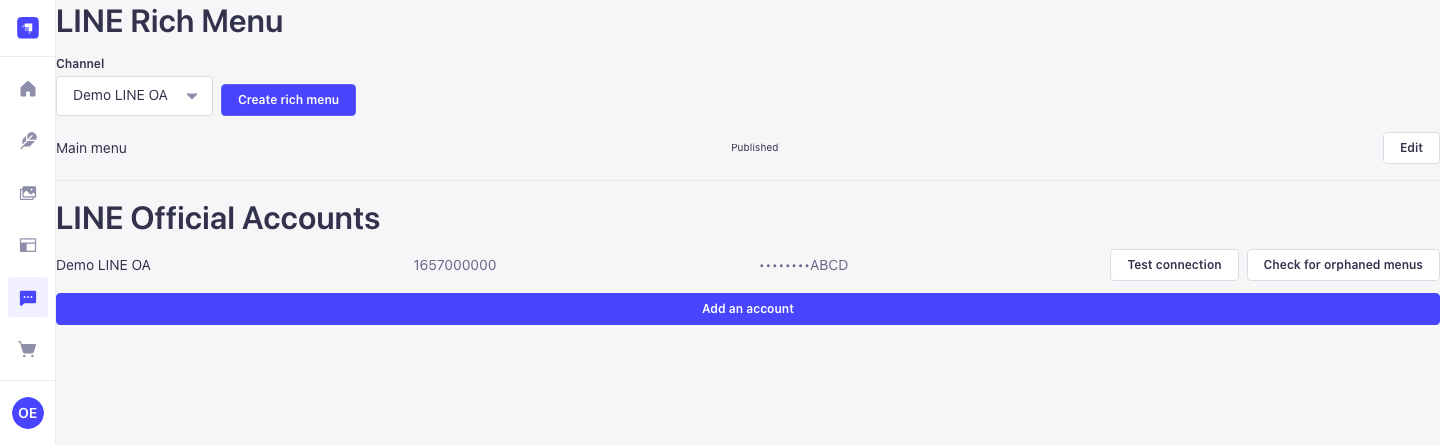
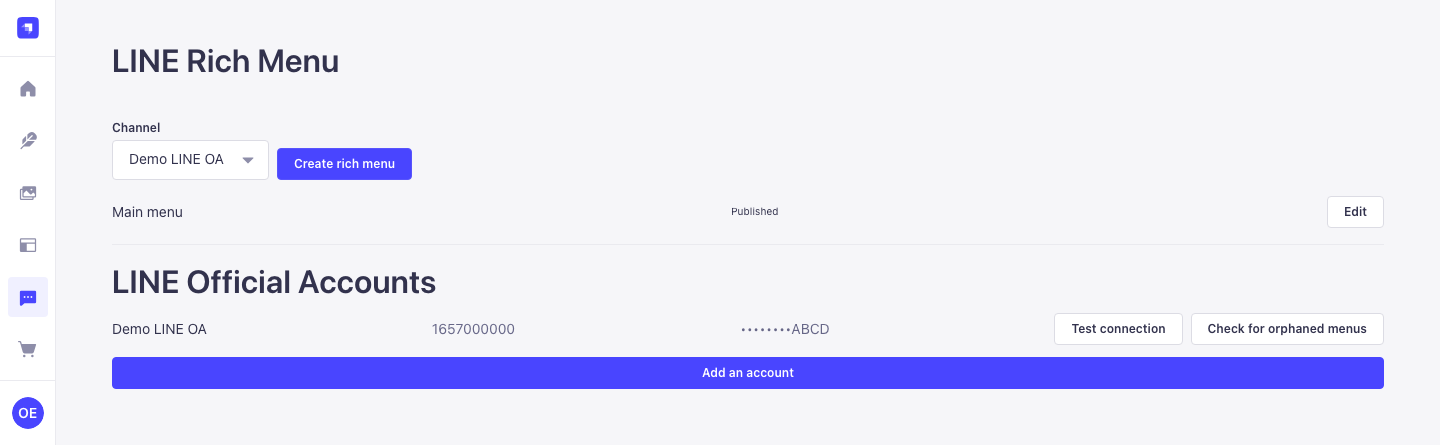
chore(docs,e2e): regenerate all four README screenshots, drop channel.png's padding paint
Retook list.png, editor.png, templates.png and channel.png against the
real app now that Task 17's ui.Page/Preview changes are in — all four
were read with the Read tool before committing:

- list.png/channel.png: real left/right padding around the content now
  (from Layouts.Content), "Add an account" no longer touches the
  viewport edge.
- editor.png: shows the new iPhone-style Preview next to a real page
  header (h1 + Cancel/Save draft/Save), not swallowing the Template/
  Image/Actions column beside it — the height trap the task called out
  didn't happen.
- templates.png: unchanged framing (full-viewport modal over the
  editor), now with real header padding visible behind the dialog.

screenshots.spec.ts: removed the sharp .extend() step that painted a
24px border onto channel.png after capture — that was compensating for
padding that didn't exist in the running app (the tell that started
this task). Now that ListPage has real padding via ui.Page, it's a
plain clipped screenshot; painting more on top would be a lie about
what the user actually sees.

diff --git a/examples/v5-app/tests/screenshots.spec.ts b/examples/v5-app/tests/screenshots.spec.ts
@@ -398,18 +398,11 @@ test('ถ่ายภาพสี่ภาพที่ README ใช้', async 
   await expect(channelSection.getByText('Demo LINE OA')).toBeVisible()
   const panelBox = await channelSection.boundingBox()
   if (panelBox === null) throw new Error('หา bounding box ของ channel section ไม่เจอ')
-  const raw = await page.screenshot({ clip: panelBox })
-  // element screenshot ปกติ (ที่รอบก่อนใช้) ครอปแนบชิดขอบ element เป๊ะ ไม่มี margin เหลือเลย —
-  // "Add an account" เป็นปุ่มเต็มความกว้าง ชนขอบขวาของ viewport พอดีอยู่แล้วโดยตัว component เอง
-  // (ไม่มี padding รอบเนื้อหาในหน้านี้เลยสักที่ — ListPage.tsx ไม่ได้ห่อด้วย Layouts.Root ที่ปกติ
-  // ให้ padding มาฟรี) จะขยาย viewport ให้กว้างขึ้นก็ไม่ช่วยเพราะ layout เป็น fluid เต็มความกว้าง
-  // เสมอ ทางแก้ที่ควบคุมได้จริงคือ "วาด" กรอบ padding เองด้วย sharp หลังถ่ายภาพ ไม่ใช่พึ่งพื้นที่ว่าง
-  // ที่ไม่มีอยู่จริงในหน้า — สีพื้นหลังอ่านจาก body ตรง ๆ (ไม่ hardcode) เพื่อให้กรอบกลืนกับพื้นหลัง
-  // จริงของแอดมิน ไม่ใช่สีที่เดาไว้ตายตัวซึ่งอาจเพี้ยนถ้าธีมเปลี่ยน
-  const bodyBackground = await page.evaluate(() => getComputedStyle(document.body).backgroundColor)
-  const sharp = (await import('sharp')).default
-  await sharp(raw)
-    .extend({ top: BOTTOM_PAD, bottom: BOTTOM_PAD, left: BOTTOM_PAD, right: BOTTOM_PAD, background: bodyBackground })
-    .png()
-    .toFile(`${OUT}channel.png`)
+  // รอบก่อนวาดกรอบ padding 24px ทับด้วย sharp หลังถ่ายภาพ เพราะตอนนั้นหน้านี้ไม่มี padding ของ
+  // ตัวเองเลยสักที่ (ListPage.tsx วาด ui.Flex เปล่า ๆ เป็นราก) — ช่องว่างนั้นถูกวาดเข้าไป ไม่ได้
+  // มีอยู่จริงในแอปที่ผู้ใช้เห็น ตอนนี้ ListPage ห่อด้วย ui.Page แล้ว (Task 17) ซึ่งจับคู่กับ
+  // Layouts.Content ของ Strapi 5 ที่ให้ padding ซ้าย-ขวาจริงมาฟรี "Add an account" จึงไม่ชนขอบ
+  // viewport อีกต่อไป — ครอปตรงจากภาพจริงเลย ไม่ต้องวาดอะไรเพิ่มเติม เพราะการวาดต่อตอนนี้จะเป็น
+  // การโกหกว่าผู้ใช้เห็นระยะห่างที่ไม่มีอยู่จริง
+  await page.screenshot({ path: `${OUT}channel.png`, clip: panelBox })
 })
